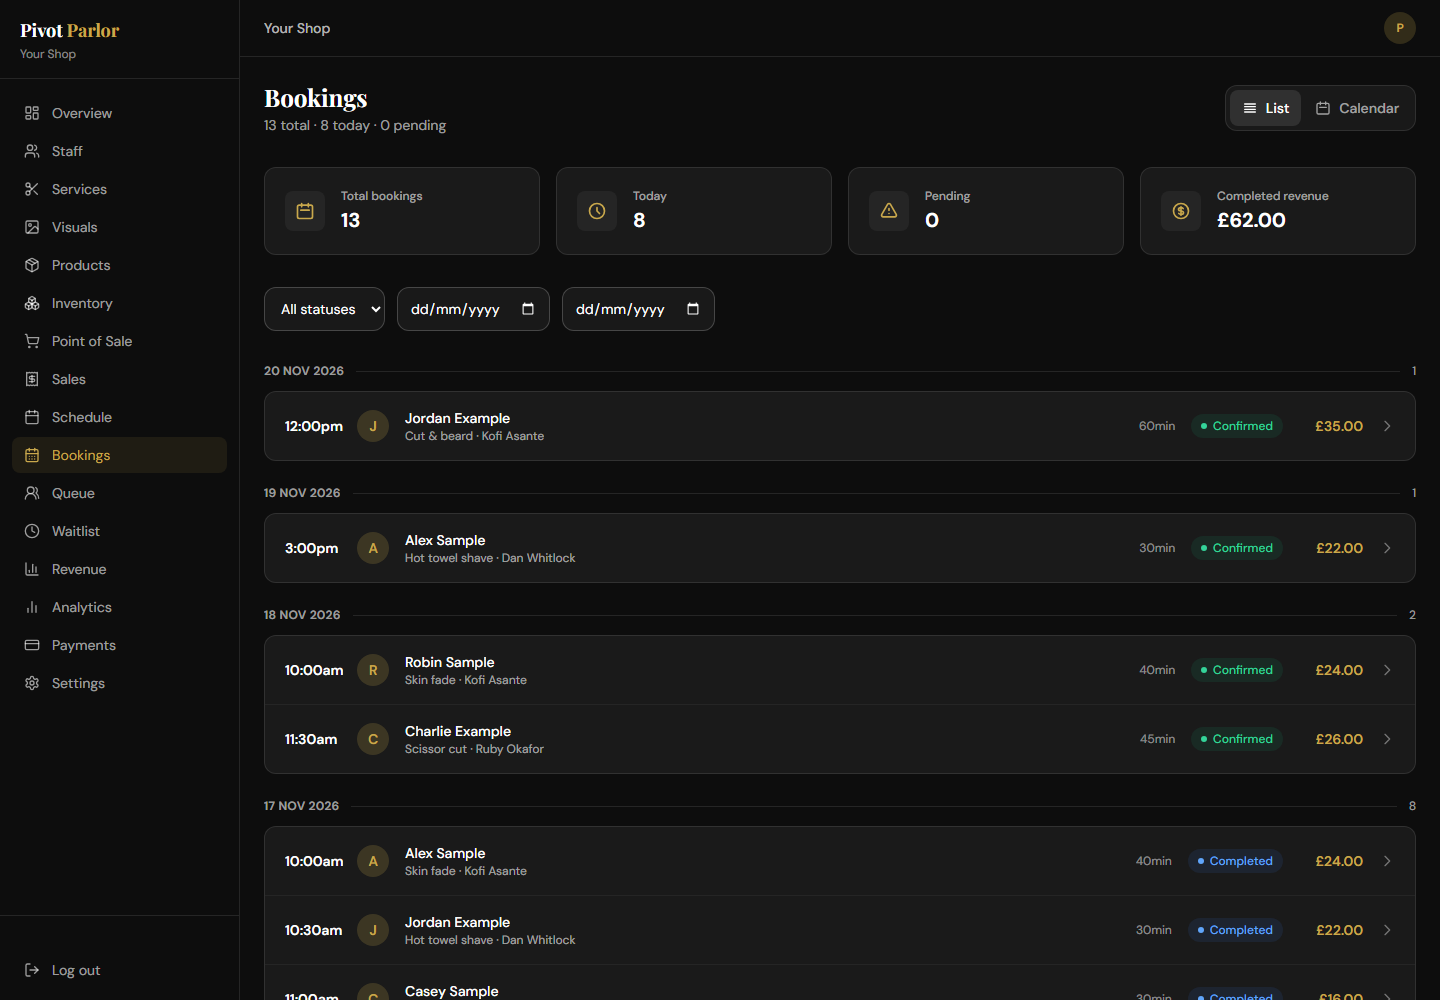
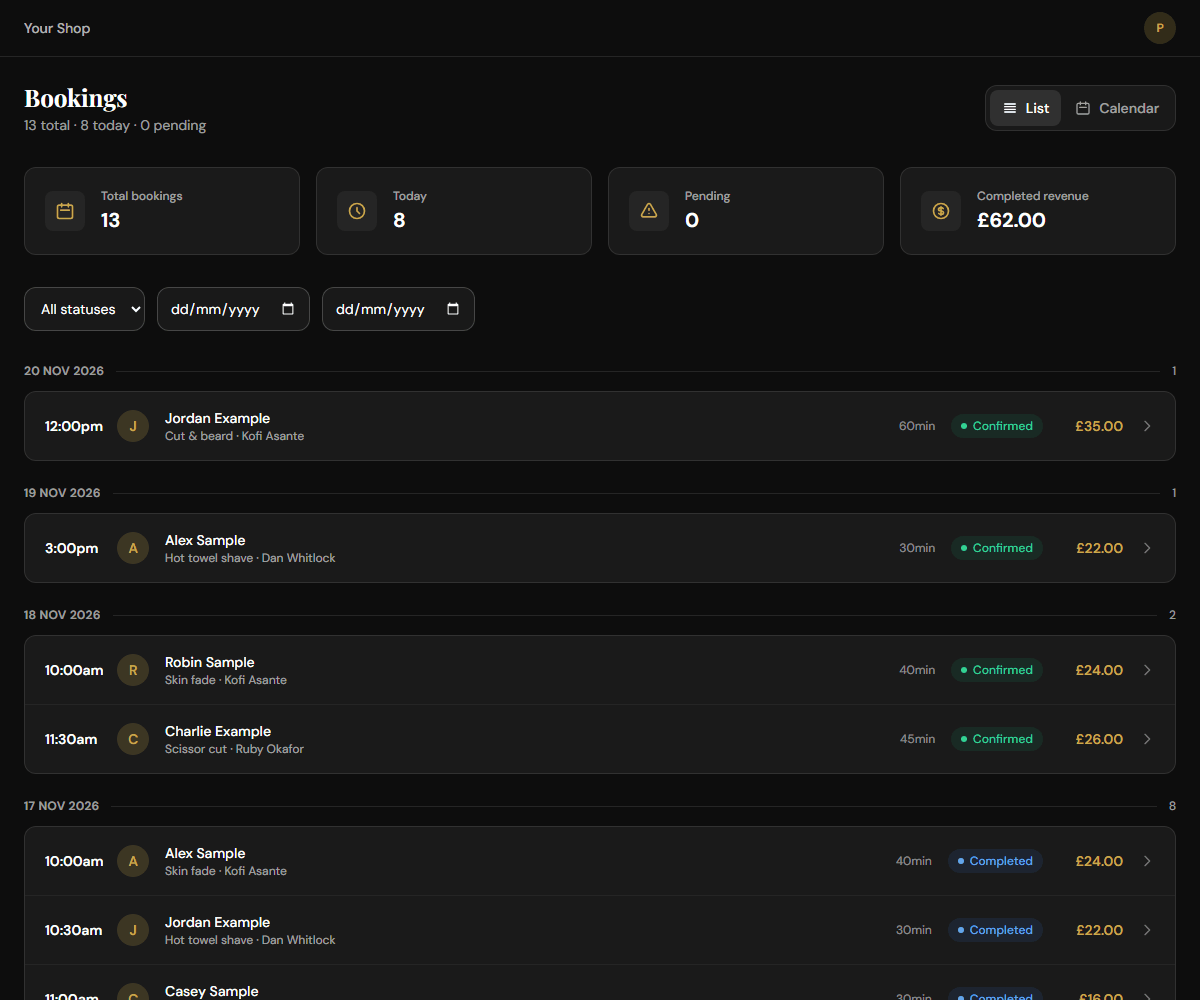
perf(showcase): crop and re-encode the Pivot Parlor images
A new script, optimize-pivot-images.py (Pillow, run with python -P), quantises
the two shop captures to a 256-colour palette and crops the six workspace
frames: the 240 px navigation sidebar goes, empty space below the content is
trimmed to 40 px, and each is quantised without dithering. A second run leaves
every file byte-identical.

The Pivot card image drops from 1,010,400 to 557,329 bytes, and the case
page's images from about 2.36 MB to 1,142,570 bytes. The catalogue records the
frames' new pixel sizes; the shop captures stay 1440 by 1000.

diff --git a/bytes-website/src/showcase-content.js b/bytes-website/src/showcase-content.js
@@ -174,7 +174,7 @@ export const projects = [
           "image": {
             "src": "/projects/pivot-bookings.png",
             "alt": "Bookings list for FerdyM's Barber Shop with sample appointments showing time, service, barber, status and price.",
-            "width": 1440,
+            "width": 1200,
             "height": 1000
           },
           "caption": "Every booking in one list, grouped by day."
@@ -183,8 +183,8 @@ export const projects = [
           "image": {
             "src": "/projects/pivot-walkin-queue.png",
             "alt": "Walk-in queue for FerdyM's Barber Shop with one customer being served and two waiting.",
-            "width": 1440,
-            "height": 1000
+            "width": 1200,
+            "height": 500
           },
           "caption": "Walk-ins join a live queue alongside booked appointments."
         },
@@ -192,8 +192,8 @@ export const projects = [
           "image": {
             "src": "/projects/pivot-till.png",
             "alt": "Point of sale for FerdyM's Barber Shop with a skin fade and a beard oil in the cart, and options to pay by cash, card or QR code.",
-            "width": 1440,
-            "height": 1000
+            "width": 1200,
+            "height": 780
           },
           "caption": "The till rings up services and retail products together. Online payments run in test mode."
         },
@@ -201,7 +201,7 @@ export const projects = [
           "image": {
             "src": "/projects/pivot-inventory.png",
             "alt": "Inventory page for FerdyM's Barber Shop showing retail sales, an open purchase order and a stock take in progress.",
-            "width": 1440,
+            "width": 1200,
             "height": 1000
           },
           "caption": "Stock, purchase orders and stock takes in one place."
@@ -210,8 +210,8 @@ export const projects = [
           "image": {
             "src": "/projects/pivot-staff-today.png",
             "alt": "Staff view for a barber at FerdyM's Barber Shop showing the next appointment, today’s schedule and a link to share the booking page.",
-            "width": 1440,
-            "height": 1000
+            "width": 1200,
+            "height": 725
           },
           "caption": "Each barber gets their own view of the day."
         },
@@ -219,8 +219,8 @@ export const projects = [
           "image": {
             "src": "/projects/pivot-operator-onboarding.png",
             "alt": "Onboard new shop form with a shop name, web address, owner email and shop type filled in with sample values.",
-            "width": 1440,
-            "height": 1000
+            "width": 1200,
+            "height": 781
           },
           "caption": "The operator opens each shop and invites its owner."
         }

diff --git a/bytes-website/scripts/optimize-pivot-images.py b/bytes-website/scripts/optimize-pivot-images.py
@@ -1,0 +1,66 @@
+"""Crop and re-encode the Pivot Parlor showcase images.
+
+Run from the repository root after capture-pivot-shops.mjs, or after copying new
+workspace frames from a Pivot Parlor handoff:
+
+    python -P bytes-website/scripts/optimize-pivot-images.py
+
+Needs Pillow. Idempotent: a second run leaves every file byte-identical.
+- Shop captures are quantised to a 256-colour palette with Floyd-Steinberg dithering.
+- Workspace frames, still 1440 px wide as handed off, lose the 240 px navigation
+  sidebar, have the empty space below their content trimmed to 40 px, and are
+  quantised to 256 colours without dithering. Frames already cropped are left alone.
+Prints each file's pixel size, so the catalogue's width and height can be checked.
+"""
+from pathlib import Path
+
+from PIL import Image
+
+ROOT = Path('bytes-website/public/projects')
+SHOPS = ['pivot-parlor', 'pivot-linden-lark']
+FRAMES = ['pivot-bookings', 'pivot-walkin-queue', 'pivot-till', 'pivot-inventory',
+          'pivot-staff-today', 'pivot-operator-onboarding']
+SIDEBAR, PAD, MAX_HEIGHT, THRESHOLD = 240, 40, 1000, 24
+
+
+def content_bottom(image):
+    """Last row whose sampled pixels differ from the bottom-right background."""
+    pixels = image.load()
+    width, height = image.size
+    background = pixels[width - 10, height - 5]
+    last = 0
+    for y in range(height):
+        if any(sum(abs(a - b) for a, b in zip(pixels[x, y], background)) > THRESHOLD
+               for x in range(0, width, 4)):
+            last = y
+    return last
+
+
+def report(path):
+    with Image.open(path) as image:
+        print(f'{path.name} {image.width}x{image.height} {path.stat().st_size}')
+
+
+def main():
+    for name in SHOPS:
+        path = ROOT / f'{name}.png'
+        with Image.open(path) as image:
+            if image.mode != 'P':
+                palette = image.convert('RGB').quantize(
+                    colors=256, method=Image.Quantize.MEDIANCUT, dither=Image.Dither.FLOYDSTEINBERG)
+                palette.save(path, optimize=True)
+        report(path)
+    for name in FRAMES:
+        path = ROOT / f'{name}.png'
+        with Image.open(path) as image:
+            if image.width == 1440:
+                cropped = image.convert('RGB').crop((SIDEBAR, 0, 1440, image.height))
+                height = min(content_bottom(cropped) + 1 + PAD, MAX_HEIGHT)
+                cropped.crop((0, 0, cropped.width, height)).quantize(
+                    colors=256, method=Image.Quantize.MEDIANCUT, dither=Image.Dither.NONE
+                ).save(path, optimize=True)
+        report(path)
+
+
+if __name__ == '__main__':
+    main()
